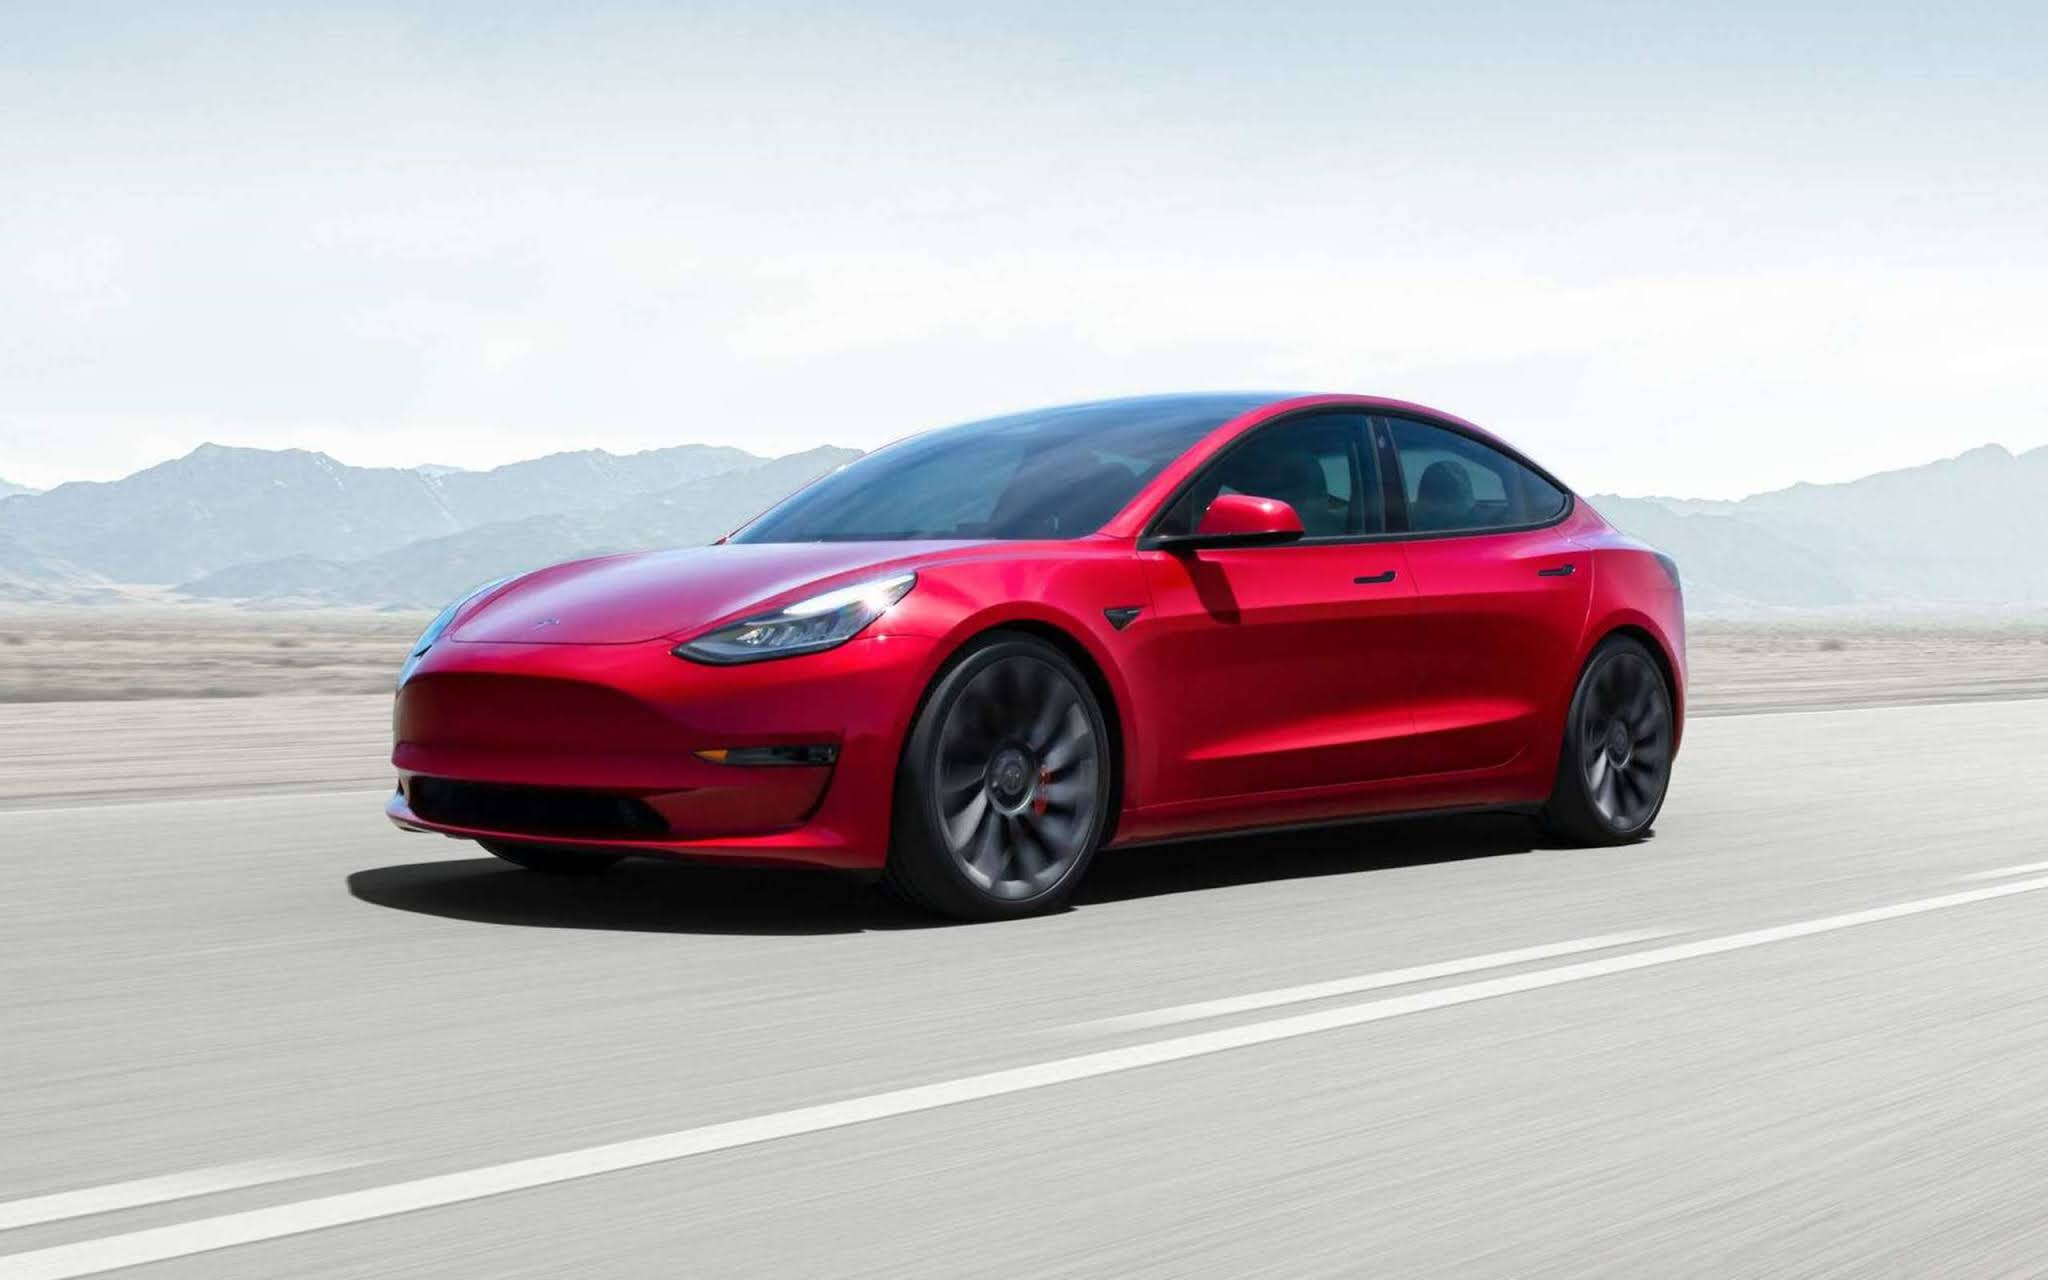
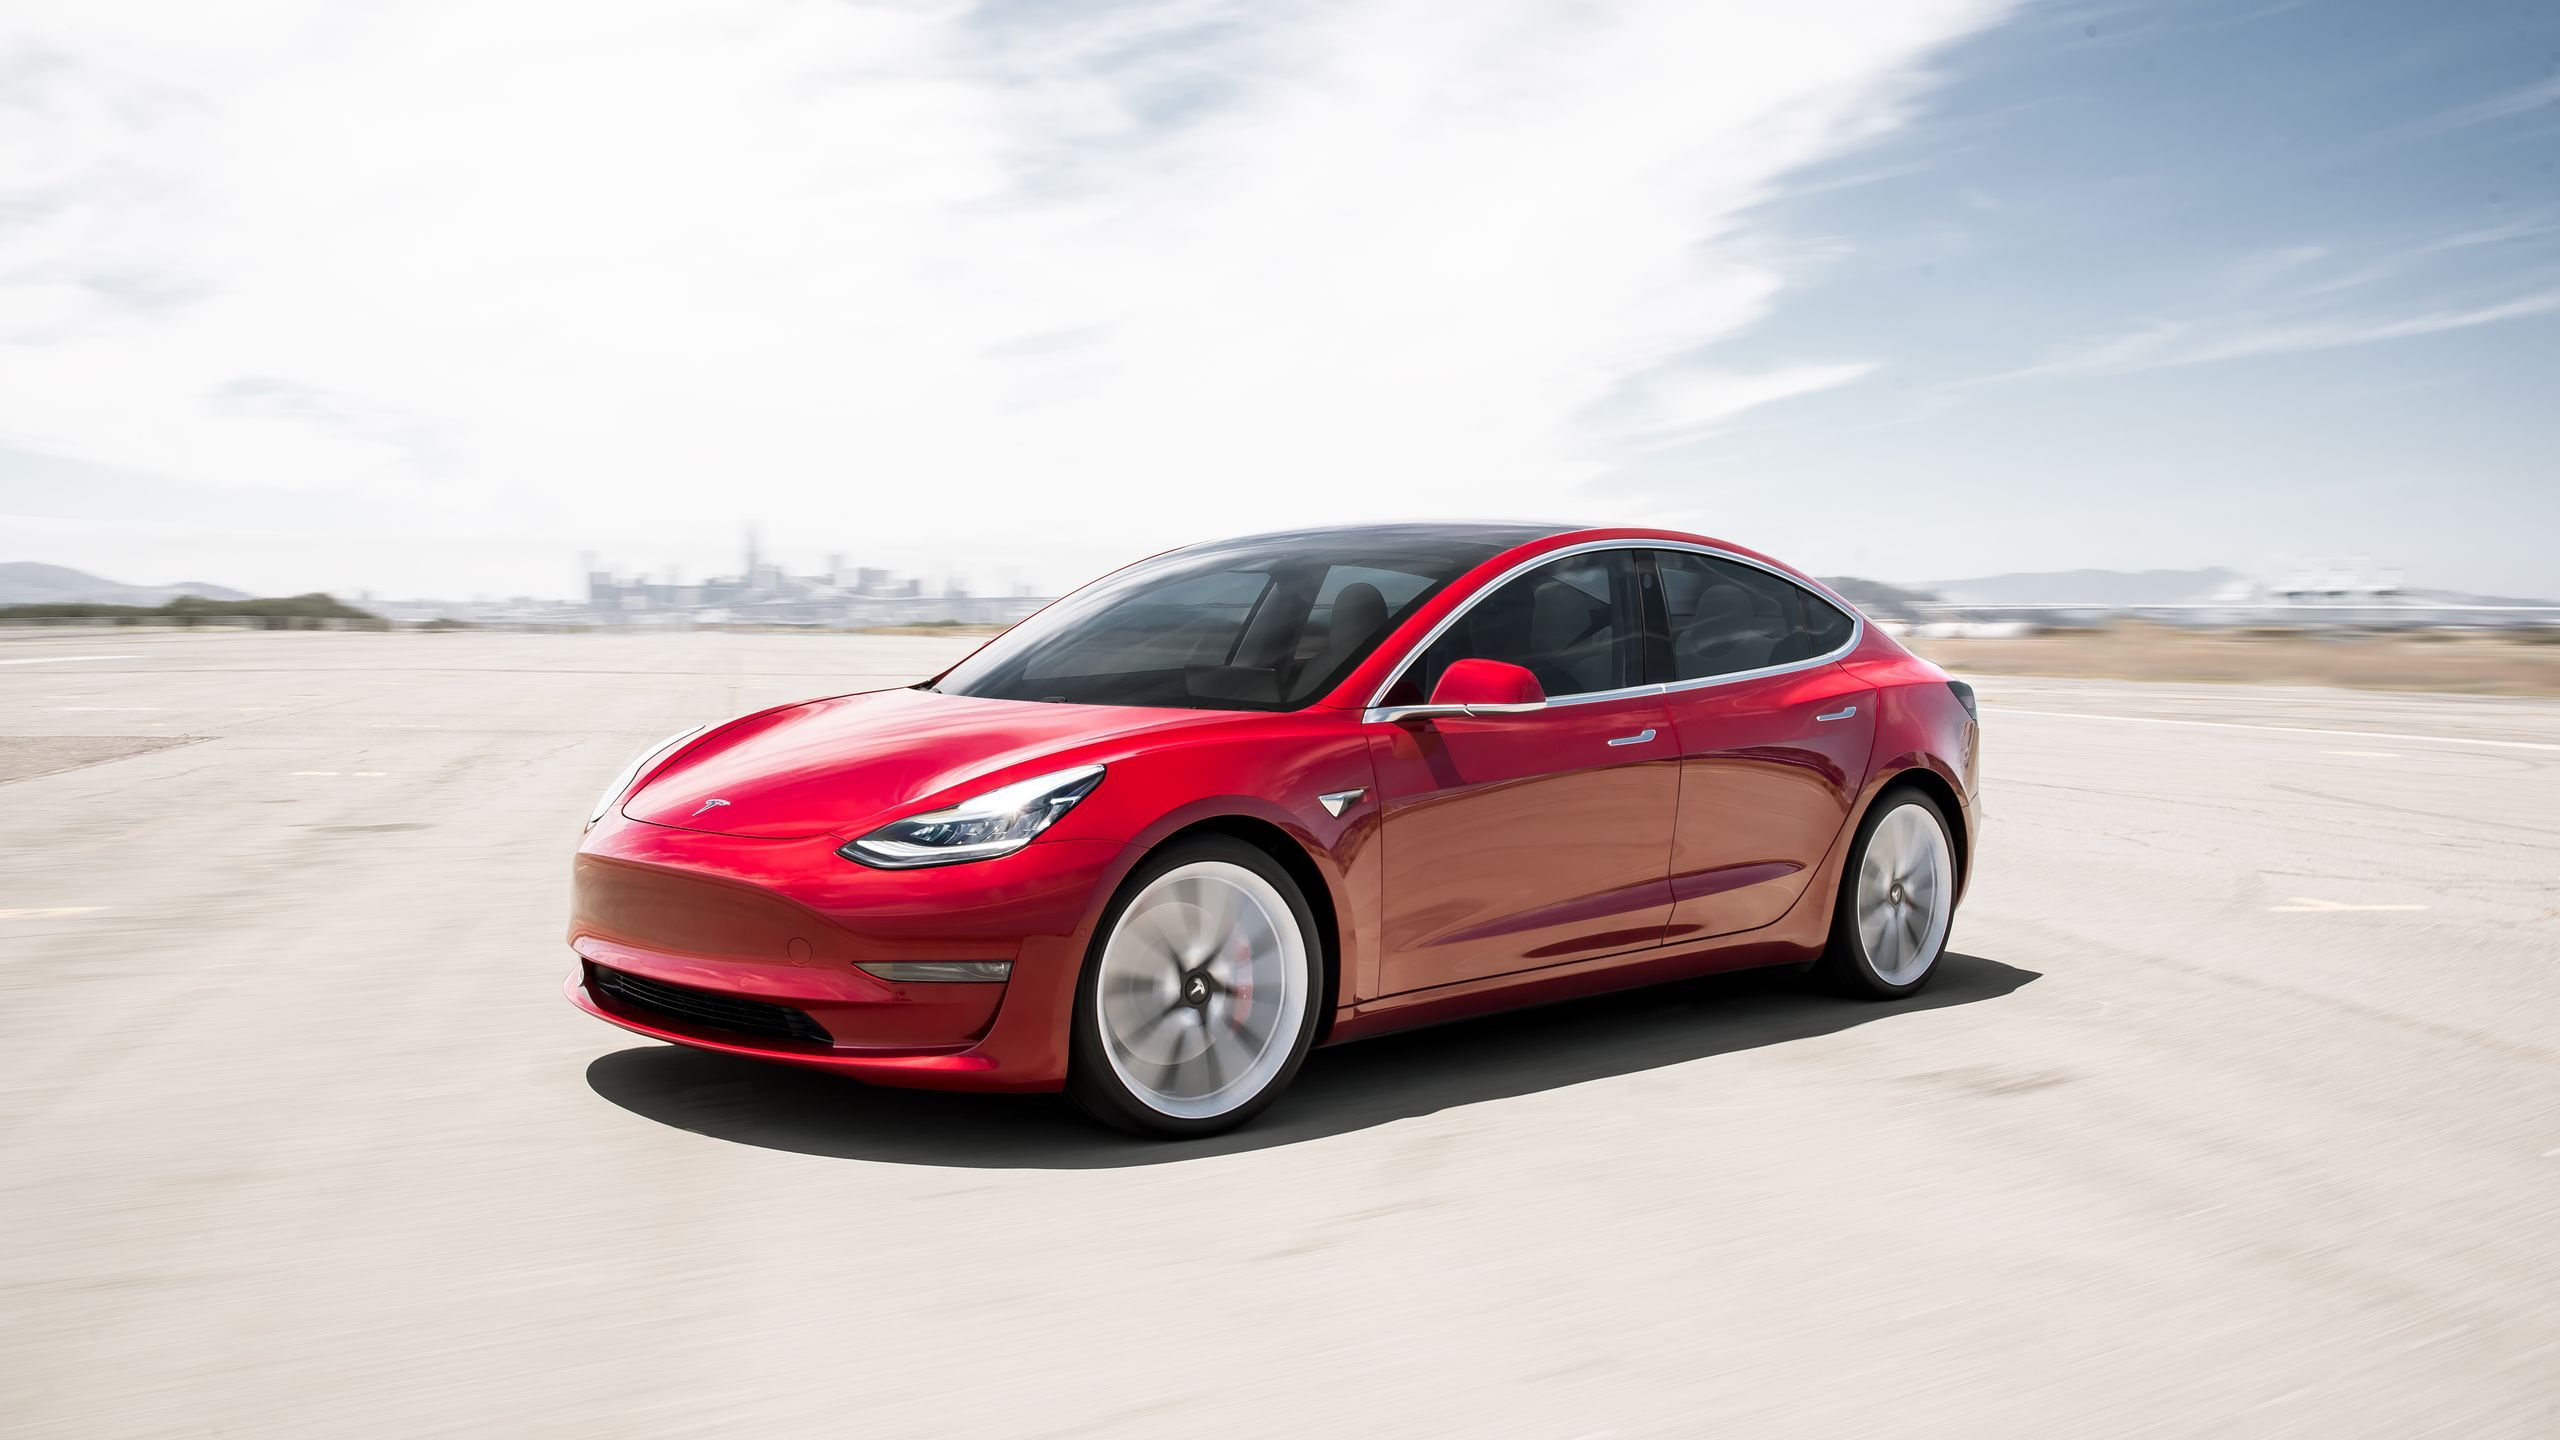
feat: Add Js to change div content on scroll Add better images

diff --git a/index.html b/index.html
@@ -7,40 +7,49 @@
     <link rel="stylesheet" href="https://cdnjs.cloudflare.com/ajax/libs/foundation/6.3.1/css/foundation.min.css" integrity="sha256-itWEYdFWzZPBG78bJOOiQIn06QCgN/F0wMDcC4nOhxY=" crossorigin="anonymous" />
     <script src="https://cdnjs.cloudflare.com/ajax/libs/foundation/6.3.1/js/foundation.min.js" integrity="sha256-Nd2xznOkrE9HkrAMi4xWy/hXkQraXioBg9iYsBrcFrs=" crossorigin="anonymous"></script>
     <link rel="preconnect" href="https://fonts.gstatic.com">
-    <link href="https://fonts.googleapis.com/css2?family=Open+Sans:wght@300;400;600;700&display=swap" rel="stylesheet">
+    <link href="https://fonts.googleapis.com/css2?family=Montserrat:wght@400;500;600;700&display=swap" rel="stylesheet">
     <link rel="stylesheet" href="src/styles/global.css">
     <link rel="stylesheet" href="src/styles/pages.css">
   </head>
   <body>
-
-    <div class="top-bar"> <!-- Start Top Bar -->
+    <div class="top-bar" data-sticky data-margin-top="0"> <!-- Start Top Bar -->
 
       <div class="top-bar-left logo"> <!-- Logo inside TopBar, left sided.-->
         <a href="#"><img src="/public/tesla-logo.png" alt="Tesla" style="width: 100px; height: 50px;"></a>
       </div>
 
-      <div class="top-bar-right menu-control"> <!-- Menu insite TopBar, right sided -->
-        <ul class="menu">
-          <li><a href="index.html">MODEL S</a></li>
-          <li><a href="/src/pages/model3.html">MODEL 3</a></li>
-          <li><a href="/src/pages/modelx.html">MODEL X</a></li>
-          <li><a href="/src/pages/modely.html">MODEL Y</a></li>
+      <div class="menu-centered menu-control"> <!-- Menu insite TopBar, right sided -->
+        <ul class="menu" data-smooth-scroll>
+          <li><a href="#models">MODEL S</a></li>
+          <li><a href="#model3">MODEL 3</a></li>
+          <li><a href="#modelx">MODEL X</a></li>
+          <li><a href="#modely">MODEL Y</a></li>
         </ul>
       </div>
     </div> <!-- End Top Bar -->
-  
-    <div class="hero">
-      <div class="row column text-center"> <!-- Centralize text -->
-        <h2>Model S</h2>
-        <div class="lead"><span>Order Online for </span><a href="#">Touchless Delivery</a></div>
-        <div class="button-control">
-        <a href="#" class="button small">CUSTOM ORDER</a> <!-- Small button -->
-        <a href="#" class="button small">EXISTING INVENTORY</a>
-      </div>
+
+    <div class="parallax modelS" id="models">
+      <div class="hero">
+        <div class="row text-center"> <!-- Create a line and centralize text -->
+          <h2 id="model" onscroll="scrollChange">Model S</h2>
+          <div class="lead"><span>Order Online for </span><a href="#">Touchless Delivery</a></div>
+          <div class="button-control">
+          <a href="#" class="button small">CUSTOM ORDER</a> <!-- Small button -->
+          <a href="#" class="button small">EXISTING INVENTORY</a>
+        </div>
       </div>
     </div>
-    <script src="https://code.jquery.com/jquery-2.1.4.min.js"></script>
-    <script src="https://dhbhdrzi4tiry.cloudfront.net/cdn/sites/foundation.js"></script>
+
+    <div class="parallax model3" id="model3" ></div>
+    <div class="parallax modelx" id="modelx"></div>
+    <div class="parallax modely" id="modely"></div>
+    <script src="/src/js/pages.js"></script>
+    <script src="js/vendor/jquery.js"></script>
+    <script src="js/vendor/what-input.js"></script>
+    <script src="js/vendor/foundation.min.js"></script>
+    <script>
+      $(document).foundation();
+    </script>
   </body>
 </html>
 

diff --git a/src/styles/pages.css b/src/styles/pages.css
@@ -1,16 +1,51 @@
-body {
-    position: relative;
-    background-image: url("/public/model-s.jpg");
+body, html{
+    scroll-behavior: smooth;
+}
+
+.parallax {
+    width: 100%;
+    background-attachment: fixed;
     background-size: cover;
     background-repeat: no-repeat;
     background-position: center;
+    align-items: center;
+    position: relative;
+    justify-content: center;
+    height: 900px;
+}
+
+.modelS {
+    
+    background-image: url(/public/model-s.jpg);
+}
+
+.model3 {
+    top: 900px;
+    background-image: url(/public/model-3.jpg);
+}
+
+.modelx{
+    top: 900px;
+    background-image: url(/public/model-x.jpg);
+}
+
+.modely{
+    top: 900px;
+    background-image: url(/public/model-y.jpg);
 }
 
 .top-bar {
+    z-index: 1;
+    position: fixed;
+    width: 100%;
+    padding-top: 0;
     letter-spacing: 0.1rem;
     font: 600 1rem "Open-Sans", sans-serif;
-    background-color: transparent;
-    padding-top: 1rem;
+    background: none;
+}
+
+.logo {
+    position: absolute;
 }
 
 .top-bar menu {
@@ -20,24 +55,25 @@ body {
 }
 
 .menu-control {
-    margin-top: 1rem;
+    margin-top: 0.6rem;
 }
 
 .top-bar ul {
     background-color: transparent;
 }
 
-.top-bar img {
-    top: 0rem;
-    margin: 0;
-}
-
 .hero {
+    z-index: 1;
+    height: 100%;
+    position: fixed;
+    width: 100%;
     letter-spacing: 0.2rem;
-    margin-top: 2rem;
+    margin-top: 7rem;
 }
 
 .hero h2 {
+    color: var(--gray);
+    font-weight: bold;
     font-size: 40px;
 }
 
@@ -80,3 +116,12 @@ body {
     background-color: rgba(255, 255, 255, 0.8);
     
 }
+
+.teste {
+    display: block;
+    background-image: url("/public/model-3.jpg");
+}
+
+html:not([data-scroll='0']) .hero{
+    color: red;
+  }

diff --git a/src/js/pages.js b/src/js/pages.js
@@ -1,0 +1,13 @@
+window.onscroll = function() {changeScroll()};
+
+function changeScroll() {
+  if (document.body.scrollTop > 50 || document.documentElement.scrollTop < 900) {
+    document.getElementById("model").textContent = "Model S";
+  } if (document.body.scrollTop > 50 || document.documentElement.scrollTop >= 900 ) {
+    document.getElementById("model").textContent = "Model 3";
+  } if (document.body.scrollTop > 50 || document.documentElement.scrollTop >= 1800 ) {
+    document.getElementById("model").textContent = "Model X";
+  } if (document.body.scrollTop > 50 || document.documentElement.scrollTop >= 2700 ) {
+    document.getElementById("model").textContent = "Model Y";
+  }
+}

diff --git a/src/styles/global.css b/src/styles/global.css
@@ -25,7 +25,7 @@
 }
 
 body, input, textarea, button{
-    font: 400 1rem "Open-Sans", sans-serif;
+    font: 400 1rem "Montserrat", sans-serif;
 }
 
 button{
